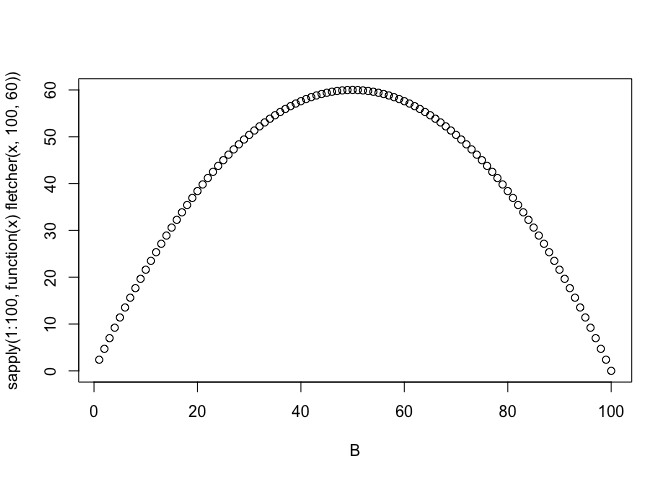
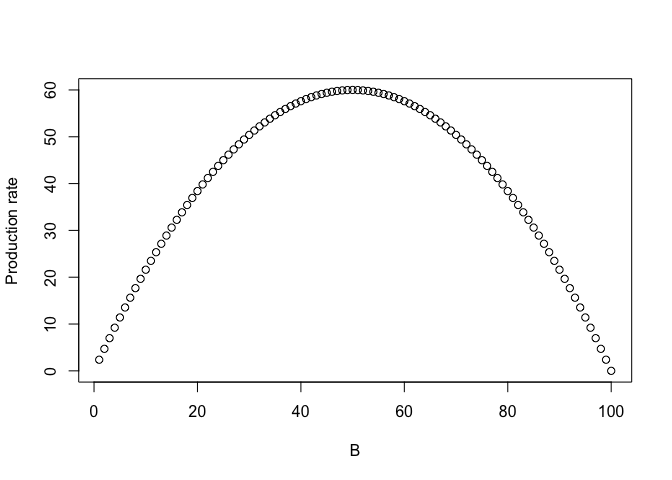
Fix legend

Changed region(s): [[0.0, 0.1562, 0.0312, 0.8125]]

diff --git a/production-models.md b/production-models.md
@@ -8,7 +8,7 @@ fletcher <- function(B, Binf, m) {
   (4 * m) / Binf * (1 - B / Binf) * B
 }
 B <- 1:100
-plot(B, sapply(1:100, function(x) fletcher(x, 100, 60)))
+plot(B, sapply(1:100, function(x) fletcher(x, 100, 60)), ylab = "Production rate")
 ```
 
 ![](production-models_files/figure-gfm/unnamed-chunk-1-1.png)<!-- -->
@@ -48,7 +48,7 @@ lines(B, Bdot, col = "red")
 abline(v = Bstar)
 
 legend("topleft",
-  col = c("black", "red", "blue"),
+  col = c("black", "blue", "red"),
   legend = c("Pdot (production rate)", "Ydot (yield rate)", "Bdot (biomass rate)"),
   lty = c(1, 1, 1)
 )
@@ -436,21 +436,21 @@ fit <- mod$sample(
     #> Chain 1 Iteration:    1 / 3000 [  0%]  (Warmup) 
     #> Chain 2 Iteration:    1 / 3000 [  0%]  (Warmup) 
     #> Chain 3 Iteration:    1 / 3000 [  0%]  (Warmup) 
-    #> Chain 3 Iteration:  100 / 3000 [  3%]  (Warmup) 
     #> Chain 4 Iteration:    1 / 3000 [  0%]  (Warmup) 
     #> Chain 4 Iteration:  100 / 3000 [  3%]  (Warmup) 
     #> Chain 1 Iteration:  100 / 3000 [  3%]  (Warmup) 
     #> Chain 2 Iteration:  100 / 3000 [  3%]  (Warmup) 
-    #> Chain 1 Iteration:  200 / 3000 [  6%]  (Warmup) 
-    #> Chain 3 Iteration:  200 / 3000 [  6%]  (Warmup) 
+    #> Chain 3 Iteration:  100 / 3000 [  3%]  (Warmup) 
     #> Chain 4 Iteration:  200 / 3000 [  6%]  (Warmup) 
-    #> Chain 1 Iteration:  300 / 3000 [ 10%]  (Warmup) 
+    #> Chain 1 Iteration:  200 / 3000 [  6%]  (Warmup) 
     #> Chain 2 Iteration:  200 / 3000 [  6%]  (Warmup) 
+    #> Chain 3 Iteration:  200 / 3000 [  6%]  (Warmup) 
+    #> Chain 1 Iteration:  300 / 3000 [ 10%]  (Warmup) 
     #> Chain 4 Iteration:  300 / 3000 [ 10%]  (Warmup) 
     #> Chain 1 Iteration:  400 / 3000 [ 13%]  (Warmup) 
     #> Chain 2 Iteration:  300 / 3000 [ 10%]  (Warmup) 
-    #> Chain 3 Iteration:  300 / 3000 [ 10%]  (Warmup) 
     #> Chain 4 Iteration:  400 / 3000 [ 13%]  (Warmup) 
+    #> Chain 3 Iteration:  300 / 3000 [ 10%]  (Warmup) 
     #> Chain 2 Iteration:  400 / 3000 [ 13%]  (Warmup) 
     #> Chain 3 Iteration:  400 / 3000 [ 13%]  (Warmup) 
     #> Chain 4 Iteration:  500 / 3000 [ 16%]  (Warmup) 
@@ -460,32 +460,32 @@ fit <- mod$sample(
     #> Chain 1 Iteration:  600 / 3000 [ 20%]  (Warmup) 
     #> Chain 2 Iteration:  600 / 3000 [ 20%]  (Warmup) 
     #> Chain 3 Iteration:  500 / 3000 [ 16%]  (Warmup) 
-    #> Chain 1 Iteration:  700 / 3000 [ 23%]  (Warmup) 
     #> Chain 4 Iteration:  700 / 3000 [ 23%]  (Warmup) 
+    #> Chain 1 Iteration:  700 / 3000 [ 23%]  (Warmup) 
     #> Chain 2 Iteration:  700 / 3000 [ 23%]  (Warmup) 
     #> Chain 3 Iteration:  600 / 3000 [ 20%]  (Warmup) 
     #> Chain 4 Iteration:  800 / 3000 [ 26%]  (Warmup) 
     #> Chain 1 Iteration:  800 / 3000 [ 26%]  (Warmup) 
     #> Chain 2 Iteration:  800 / 3000 [ 26%]  (Warmup) 
     #> Chain 3 Iteration:  700 / 3000 [ 23%]  (Warmup) 
-    #> Chain 4 Iteration:  900 / 3000 [ 30%]  (Warmup) 
     #> Chain 1 Iteration:  900 / 3000 [ 30%]  (Warmup) 
     #> Chain 2 Iteration:  900 / 3000 [ 30%]  (Warmup) 
+    #> Chain 4 Iteration:  900 / 3000 [ 30%]  (Warmup) 
     #> Chain 3 Iteration:  800 / 3000 [ 26%]  (Warmup) 
     #> Chain 1 Iteration: 1000 / 3000 [ 33%]  (Warmup) 
     #> Chain 1 Iteration: 1001 / 3000 [ 33%]  (Sampling) 
-    #> Chain 2 Iteration: 1000 / 3000 [ 33%]  (Warmup) 
-    #> Chain 2 Iteration: 1001 / 3000 [ 33%]  (Sampling) 
     #> Chain 3 Iteration:  900 / 3000 [ 30%]  (Warmup) 
     #> Chain 1 Iteration: 1100 / 3000 [ 36%]  (Sampling) 
+    #> Chain 2 Iteration: 1000 / 3000 [ 33%]  (Warmup) 
+    #> Chain 2 Iteration: 1001 / 3000 [ 33%]  (Sampling) 
     #> Chain 4 Iteration: 1000 / 3000 [ 33%]  (Warmup) 
     #> Chain 4 Iteration: 1001 / 3000 [ 33%]  (Sampling) 
     #> Chain 1 Iteration: 1200 / 3000 [ 40%]  (Sampling) 
     #> Chain 3 Iteration: 1000 / 3000 [ 33%]  (Warmup) 
     #> Chain 3 Iteration: 1001 / 3000 [ 33%]  (Sampling) 
+    #> Chain 2 Iteration: 1100 / 3000 [ 36%]  (Sampling) 
     #> Chain 4 Iteration: 1100 / 3000 [ 36%]  (Sampling) 
     #> Chain 1 Iteration: 1300 / 3000 [ 43%]  (Sampling) 
-    #> Chain 2 Iteration: 1100 / 3000 [ 36%]  (Sampling) 
     #> Chain 3 Iteration: 1100 / 3000 [ 36%]  (Sampling) 
     #> Chain 3 Iteration: 1200 / 3000 [ 40%]  (Sampling) 
     #> Chain 4 Iteration: 1200 / 3000 [ 40%]  (Sampling) 
@@ -501,40 +501,40 @@ fit <- mod$sample(
     #> Chain 4 Iteration: 1400 / 3000 [ 46%]  (Sampling) 
     #> Chain 1 Iteration: 1700 / 3000 [ 56%]  (Sampling) 
     #> Chain 3 Iteration: 1600 / 3000 [ 53%]  (Sampling) 
-    #> Chain 1 Iteration: 1800 / 3000 [ 60%]  (Sampling) 
     #> Chain 2 Iteration: 1400 / 3000 [ 46%]  (Sampling) 
     #> Chain 3 Iteration: 1700 / 3000 [ 56%]  (Sampling) 
     #> Chain 4 Iteration: 1500 / 3000 [ 50%]  (Sampling) 
-    #> Chain 3 Iteration: 1800 / 3000 [ 60%]  (Sampling) 
+    #> Chain 1 Iteration: 1800 / 3000 [ 60%]  (Sampling) 
     #> Chain 1 Iteration: 1900 / 3000 [ 63%]  (Sampling) 
+    #> Chain 3 Iteration: 1800 / 3000 [ 60%]  (Sampling) 
+    #> Chain 2 Iteration: 1500 / 3000 [ 50%]  (Sampling) 
     #> Chain 4 Iteration: 1600 / 3000 [ 53%]  (Sampling) 
     #> Chain 1 Iteration: 2000 / 3000 [ 66%]  (Sampling) 
-    #> Chain 2 Iteration: 1500 / 3000 [ 50%]  (Sampling) 
     #> Chain 3 Iteration: 1900 / 3000 [ 63%]  (Sampling) 
-    #> Chain 1 Iteration: 2100 / 3000 [ 70%]  (Sampling) 
     #> Chain 3 Iteration: 2000 / 3000 [ 66%]  (Sampling) 
     #> Chain 4 Iteration: 1700 / 3000 [ 56%]  (Sampling) 
+    #> Chain 1 Iteration: 2100 / 3000 [ 70%]  (Sampling) 
     #> Chain 2 Iteration: 1600 / 3000 [ 53%]  (Sampling) 
     #> Chain 3 Iteration: 2100 / 3000 [ 70%]  (Sampling) 
     #> Chain 1 Iteration: 2200 / 3000 [ 73%]  (Sampling) 
-    #> Chain 3 Iteration: 2200 / 3000 [ 73%]  (Sampling) 
     #> Chain 4 Iteration: 1800 / 3000 [ 60%]  (Sampling) 
+    #> Chain 3 Iteration: 2200 / 3000 [ 73%]  (Sampling) 
     #> Chain 1 Iteration: 2300 / 3000 [ 76%]  (Sampling) 
     #> Chain 2 Iteration: 1700 / 3000 [ 56%]  (Sampling) 
     #> Chain 3 Iteration: 2300 / 3000 [ 76%]  (Sampling) 
+    #> Chain 4 Iteration: 1900 / 3000 [ 63%]  (Sampling) 
     #> Chain 1 Iteration: 2400 / 3000 [ 80%]  (Sampling) 
     #> Chain 3 Iteration: 2400 / 3000 [ 80%]  (Sampling) 
-    #> Chain 4 Iteration: 1900 / 3000 [ 63%]  (Sampling) 
-    #> Chain 2 Iteration: 1800 / 3000 [ 60%]  (Sampling) 
     #> Chain 1 Iteration: 2500 / 3000 [ 83%]  (Sampling) 
+    #> Chain 2 Iteration: 1800 / 3000 [ 60%]  (Sampling) 
     #> Chain 3 Iteration: 2500 / 3000 [ 83%]  (Sampling) 
     #> Chain 4 Iteration: 2000 / 3000 [ 66%]  (Sampling) 
     #> Chain 1 Iteration: 2600 / 3000 [ 86%]  (Sampling) 
     #> Chain 2 Iteration: 1900 / 3000 [ 63%]  (Sampling) 
     #> Chain 3 Iteration: 2600 / 3000 [ 86%]  (Sampling) 
     #> Chain 1 Iteration: 2700 / 3000 [ 90%]  (Sampling) 
-    #> Chain 3 Iteration: 2700 / 3000 [ 90%]  (Sampling) 
     #> Chain 4 Iteration: 2100 / 3000 [ 70%]  (Sampling) 
+    #> Chain 3 Iteration: 2700 / 3000 [ 90%]  (Sampling) 
     #> Chain 1 Iteration: 2800 / 3000 [ 93%]  (Sampling) 
     #> Chain 2 Iteration: 2000 / 3000 [ 66%]  (Sampling) 
     #> Chain 3 Iteration: 2800 / 3000 [ 93%]  (Sampling) 
@@ -543,9 +543,9 @@ fit <- mod$sample(
     #> Chain 3 Iteration: 2900 / 3000 [ 96%]  (Sampling) 
     #> Chain 1 Iteration: 3000 / 3000 [100%]  (Sampling) 
     #> Chain 2 Iteration: 2100 / 3000 [ 70%]  (Sampling) 
-    #> Chain 3 Iteration: 3000 / 3000 [100%]  (Sampling) 
     #> Chain 4 Iteration: 2300 / 3000 [ 76%]  (Sampling) 
-    #> Chain 1 finished in 6.1 seconds.
+    #> Chain 1 finished in 6.2 seconds.
+    #> Chain 3 Iteration: 3000 / 3000 [100%]  (Sampling) 
     #> Chain 3 finished in 6.2 seconds.
     #> Chain 4 Iteration: 2400 / 3000 [ 80%]  (Sampling) 
     #> Chain 2 Iteration: 2200 / 3000 [ 73%]  (Sampling) 
@@ -564,13 +564,13 @@ fit <- mod$sample(
     #> Chain 2 Iteration: 2800 / 3000 [ 93%]  (Sampling) 
     #> Chain 2 Iteration: 2900 / 3000 [ 96%]  (Sampling) 
     #> Chain 2 Iteration: 3000 / 3000 [100%]  (Sampling) 
-    #> Chain 2 finished in 9.1 seconds.
+    #> Chain 2 finished in 9.2 seconds.
     #> 
     #> All 4 chains finished successfully.
     #> Mean chain execution time: 7.4 seconds.
-    #> Total execution time: 9.3 seconds.
+    #> Total execution time: 9.4 seconds.
     fit$cmdstan_diagnose()
-    #> Processing csv files: /var/folders/h5/j1fmxy1n7cz6sl653t515qqr0000gn/T/RtmpZHS1ck/schaefer_log-202202101317-1-3a3d64.csv, /var/folders/h5/j1fmxy1n7cz6sl653t515qqr0000gn/T/RtmpZHS1ck/schaefer_log-202202101317-2-3a3d64.csv, /var/folders/h5/j1fmxy1n7cz6sl653t515qqr0000gn/T/RtmpZHS1ck/schaefer_log-202202101317-3-3a3d64.csv, /var/folders/h5/j1fmxy1n7cz6sl653t515qqr0000gn/T/RtmpZHS1ck/schaefer_log-202202101317-4-3a3d64.csv
+    #> Processing csv files: /var/folders/h5/j1fmxy1n7cz6sl653t515qqr0000gn/T/RtmpdtRsy9/schaefer_log-202202101343-1-3a412c.csv, /var/folders/h5/j1fmxy1n7cz6sl653t515qqr0000gn/T/RtmpdtRsy9/schaefer_log-202202101343-2-3a412c.csv, /var/folders/h5/j1fmxy1n7cz6sl653t515qqr0000gn/T/RtmpdtRsy9/schaefer_log-202202101343-3-3a412c.csv, /var/folders/h5/j1fmxy1n7cz6sl653t515qqr0000gn/T/RtmpdtRsy9/schaefer_log-202202101343-4-3a412c.csv
     #> 
     #> Checking sampler transitions treedepth.
     #> Treedepth satisfactory for all transitions.
@@ -590,7 +590,7 @@ fit <- mod$sample(
 
 ``` r
 print(stanfit, pars = c("log_K", "log_q", "log_r", "sigma"))
-#> Inference for Stan model: schaefer_log-202202101317-1-3a3d64.
+#> Inference for Stan model: schaefer_log-202202101343-1-3a412c.
 #> 4 chains, each with iter=3000; warmup=1000; thin=1; 
 #> post-warmup draws per chain=2000, total post-warmup draws=8000.
 #> 
@@ -600,7 +600,7 @@ print(stanfit, pars = c("log_K", "log_q", "log_r", "sigma"))
 #> log_r -1.30       0 0.11 -1.52 -1.38 -1.30 -1.23 -1.09  1620    1
 #> sigma  0.18       0 0.01  0.16  0.17  0.18  0.19  0.21  2375    1
 #> 
-#> Samples were drawn using NUTS(diag_e) at Thu Feb 10 13:17:43 2022.
+#> Samples were drawn using NUTS(diag_e) at Thu Feb 10 13:43:56 2022.
 #> For each parameter, n_eff is a crude measure of effective sample size,
 #> and Rhat is the potential scale reduction factor on split chains (at 
 #> convergence, Rhat=1).
